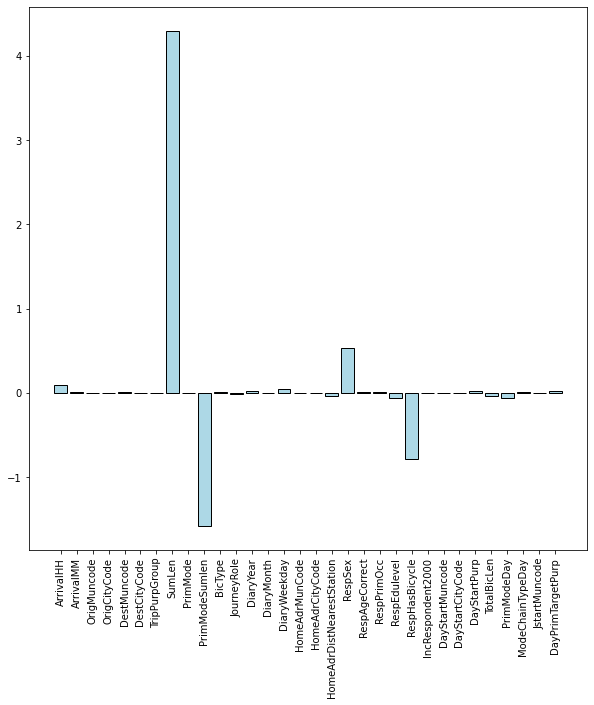
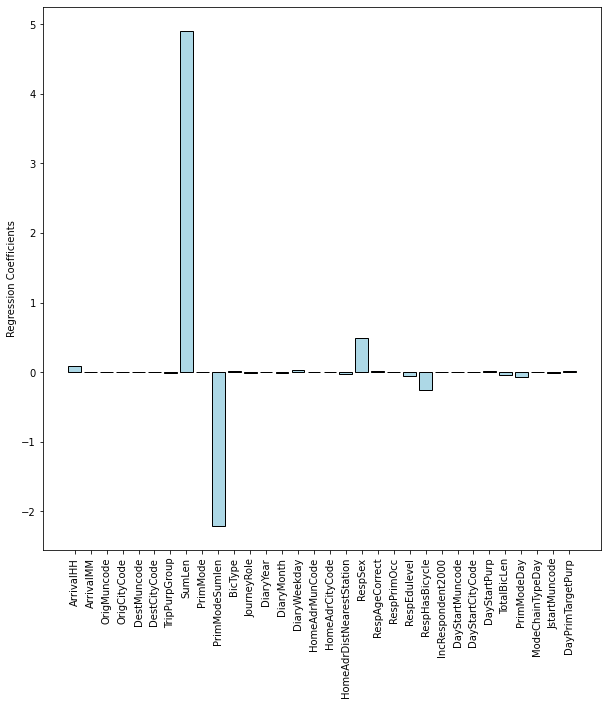
Add y axis label

diff --git a/content/en/demographic/index.md b/content/en/demographic/index.md
@@ -35,9 +35,9 @@ Surprisingly the time of the year does not influence the trip time. However, the
 
 <img src="reg_feature_weights.png" width=800 height=600 />
 
-To compare the result and feature importance, as said before, we also performed the Decision Tree-based regression. The Mean Absolute Error this time was lower: 3.03. By looking at the feature importance it can be observed that even though again 'SumLen' is the most important one the second and third are different than in Linear Regression. This actually highlights a very important fact, that feature importance may vary across different models and there is no best feature selection method [3].
+To compare the result and feature importance, as said before, we also performed the Decision Tree-based regression. The Mean Absolute Error this time was lower: 3.15. By looking at the feature importance it can be observed that even though again 'SumLen' is the most important one the second and third are different than in Linear Regression. This actually highlights a very important fact, that feature importance may vary across different models and there is no best feature selection method [3].
 
-<img src="DT_features_importance.png" width=800 height=600 />
+<img src="DT_feature_importance.png" width=800 height=600 />
 
 By presenting the couple of first nodes of the treee we can actually observe that the first seven only takes into account the "SumLen" feature, what again underlines the importance of this element.
 
